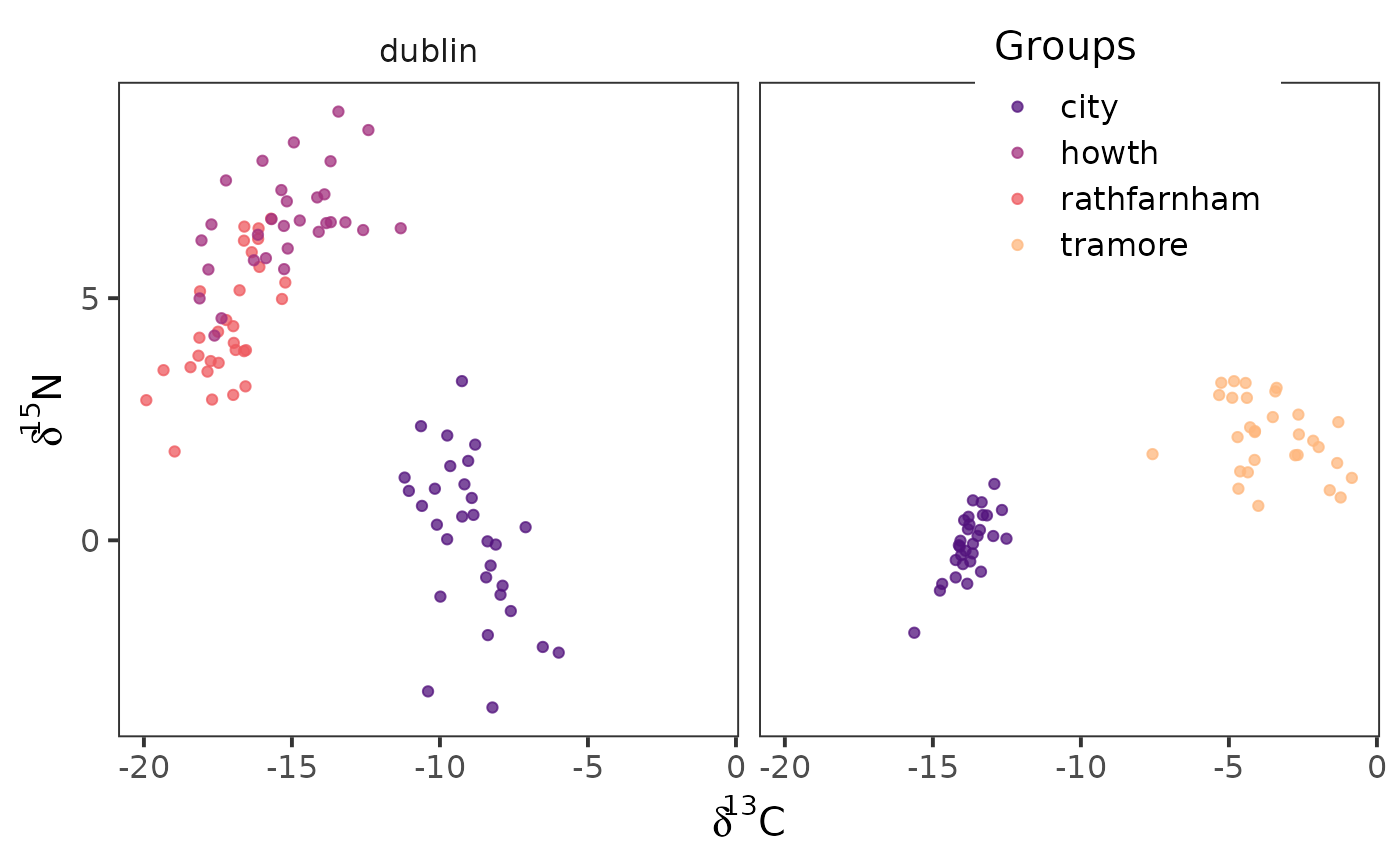
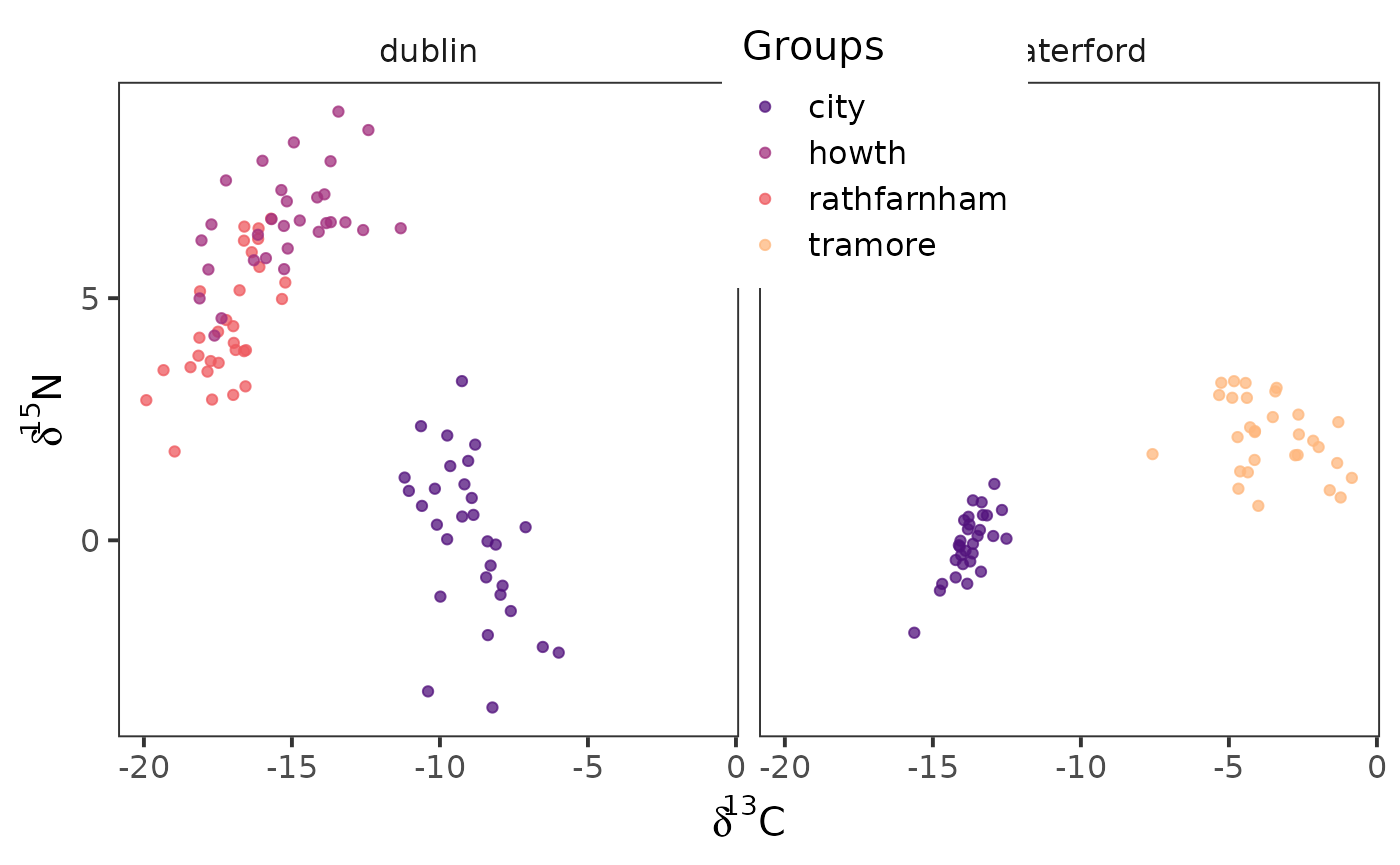
Deploying to gh-pages from @ benjaminhlina/nichetools@afe97bc655fb9cd387bac9de38b0959a0d0a10cc 🚀

diff --git a/articles/using-nichetools-with-the-package-SIBER.html b/articles/using-nichetools-with-the-package-SIBER.html
@@ -5,12 +5,12 @@
 <meta charset="utf-8">
 <meta http-equiv="X-UA-Compatible" content="IE=edge">
 <meta name="viewport" content="width=device-width, initial-scale=1, shrink-to-fit=no">
-<title>Using nichtools with SIBER • nichetools</title>
+<title>Using {nichtools} with SIBER • nichetools</title>
 <script src="../deps/jquery-3.6.0/jquery-3.6.0.min.js"></script><meta name="viewport" content="width=device-width, initial-scale=1, shrink-to-fit=no">
 <link href="../deps/bootstrap-5.3.1/bootstrap.min.css" rel="stylesheet">
 <script src="../deps/bootstrap-5.3.1/bootstrap.bundle.min.js"></script><link href="../deps/font-awesome-6.4.2/css/all.min.css" rel="stylesheet">
 <link href="../deps/font-awesome-6.4.2/css/v4-shims.min.css" rel="stylesheet">
-<script src="../deps/headroom-0.11.0/headroom.min.js"></script><script src="../deps/headroom-0.11.0/jQuery.headroom.min.js"></script><script src="../deps/bootstrap-toc-1.0.1/bootstrap-toc.min.js"></script><script src="../deps/clipboard.js-2.0.11/clipboard.min.js"></script><script src="../deps/search-1.0.0/autocomplete.jquery.min.js"></script><script src="../deps/search-1.0.0/fuse.min.js"></script><script src="../deps/search-1.0.0/mark.min.js"></script><!-- pkgdown --><script src="../pkgdown.js"></script><meta property="og:title" content="Using nichtools with SIBER">
+<script src="../deps/headroom-0.11.0/headroom.min.js"></script><script src="../deps/headroom-0.11.0/jQuery.headroom.min.js"></script><script src="../deps/bootstrap-toc-1.0.1/bootstrap-toc.min.js"></script><script src="../deps/clipboard.js-2.0.11/clipboard.min.js"></script><script src="../deps/search-1.0.0/autocomplete.jquery.min.js"></script><script src="../deps/search-1.0.0/fuse.min.js"></script><script src="../deps/search-1.0.0/mark.min.js"></script><!-- pkgdown --><script src="../pkgdown.js"></script><meta property="og:title" content="Using {nichtools} with SIBER">
 </head>
 <body>
     <a href="#main" class="visually-hidden-focusable">Skip to contents</a>
@@ -34,7 +34,7 @@
   <button class="nav-link dropdown-toggle" type="button" id="dropdown-articles" data-bs-toggle="dropdown" aria-expanded="false" aria-haspopup="true">Articles</button>
   <ul class="dropdown-menu" aria-labelledby="dropdown-articles">
 <li><a class="dropdown-item" href="../articles/using-nichetools-with-the-package-nicheROVER.html">Using {nichetools} with the package nicheROVER</a></li>
-    <li><a class="dropdown-item" href="../articles/using-nichetools-with-the-package-SIBER.html">Using nichtools with SIBER</a></li>
+    <li><a class="dropdown-item" href="../articles/using-nichetools-with-the-package-SIBER.html">Using {nichtools} with SIBER</a></li>
   </ul>
 </li>
 <li class="nav-item"><a class="nav-link" href="../news/index.html">Changelog</a></li>
@@ -56,7 +56,7 @@
 <div class="row">
   <main id="main" class="col-md-9"><div class="page-header">
 
-      <h1>Using nichtools with SIBER</h1>
+      <h1>Using {nichtools} with SIBER</h1>
             
       
 
@@ -199,7 +199,7 @@ stucture.</p>
 <span>    strip.background <span class="op">=</span> <span class="fu"><a href="https://ggplot2.tidyverse.org/reference/element.html" class="external-link">element_blank</a></span><span class="op">(</span><span class="op">)</span>,</span>
 <span>    panel.grid <span class="op">=</span> <span class="fu"><a href="https://ggplot2.tidyverse.org/reference/element.html" class="external-link">element_blank</a></span><span class="op">(</span><span class="op">)</span>, </span>
 <span>    legend.position <span class="op">=</span> <span class="st">"inside"</span>,</span>
-<span>    legend.position.inside <span class="op">=</span> <span class="fu"><a href="https://rdrr.io/r/base/c.html" class="external-link">c</a></span><span class="op">(</span><span class="fl">0.8</span>, <span class="fl">0.9</span><span class="op">)</span></span>
+<span>    legend.position.inside <span class="op">=</span> <span class="fu"><a href="https://rdrr.io/r/base/c.html" class="external-link">c</a></span><span class="op">(</span><span class="fl">0.6</span>, <span class="fl">0.9</span><span class="op">)</span></span>
 <span>  <span class="op">)</span> <span class="op">+</span> </span>
 <span>  <span class="fu"><a href="https://ggplot2.tidyverse.org/reference/labs.html" class="external-link">labs</a></span><span class="op">(</span></span>
 <span>    x <span class="op">=</span> <span class="fu"><a href="https://rdrr.io/r/base/expression.html" class="external-link">expression</a></span><span class="op">(</span><span class="fu"><a href="https://rdrr.io/r/base/paste.html" class="external-link">paste</a></span><span class="op">(</span><span class="va">delta</span><span class="op">^</span><span class="fl">13</span>,<span class="st">"C"</span><span class="op">)</span><span class="op">)</span>, </span>
@@ -307,7 +307,7 @@ are correct by plotting them with {ggplot2}</p>
 <span>    strip.background <span class="op">=</span> <span class="fu"><a href="https://ggplot2.tidyverse.org/reference/element.html" class="external-link">element_blank</a></span><span class="op">(</span><span class="op">)</span>,</span>
 <span>    panel.grid <span class="op">=</span> <span class="fu"><a href="https://ggplot2.tidyverse.org/reference/element.html" class="external-link">element_blank</a></span><span class="op">(</span><span class="op">)</span>, </span>
 <span>    legend.position <span class="op">=</span> <span class="st">"inside"</span>,</span>
-<span>    legend.position.inside <span class="op">=</span> <span class="fu"><a href="https://rdrr.io/r/base/c.html" class="external-link">c</a></span><span class="op">(</span><span class="fl">0.8</span>, <span class="fl">0.9</span><span class="op">)</span></span>
+<span>    legend.position.inside <span class="op">=</span> <span class="fu"><a href="https://rdrr.io/r/base/c.html" class="external-link">c</a></span><span class="op">(</span><span class="fl">0.6</span>, <span class="fl">0.9</span><span class="op">)</span></span>
 <span>  <span class="op">)</span> <span class="op">+</span> </span>
 <span>  <span class="fu"><a href="https://ggplot2.tidyverse.org/reference/labs.html" class="external-link">labs</a></span><span class="op">(</span></span>
 <span>    x <span class="op">=</span> <span class="fu"><a href="https://rdrr.io/r/base/expression.html" class="external-link">expression</a></span><span class="op">(</span><span class="fu"><a href="https://rdrr.io/r/base/paste.html" class="external-link">paste</a></span><span class="op">(</span><span class="va">delta</span><span class="op">^</span><span class="fl">13</span>,<span class="st">"C"</span><span class="op">)</span><span class="op">)</span>, </span>

diff --git a/articles/index.html b/articles/index.html
@@ -19,7 +19,7 @@
 <li class="nav-item dropdown">
   <button class="nav-link dropdown-toggle" type="button" id="dropdown-articles" data-bs-toggle="dropdown" aria-expanded="false" aria-haspopup="true">Articles</button>
   <ul class="dropdown-menu" aria-labelledby="dropdown-articles"><li><a class="dropdown-item" href="../articles/using-nichetools-with-the-package-nicheROVER.html">Using {nichetools} with the package nicheROVER</a></li>
-    <li><a class="dropdown-item" href="../articles/using-nichetools-with-the-package-SIBER.html">Using nichtools with SIBER</a></li>
+    <li><a class="dropdown-item" href="../articles/using-nichetools-with-the-package-SIBER.html">Using {nichtools} with SIBER</a></li>
   </ul></li>
 <li class="nav-item"><a class="nav-link" href="../news/index.html">Changelog</a></li>
       </ul><ul class="navbar-nav"><li class="nav-item"><form class="form-inline" role="search">
@@ -41,7 +41,7 @@
 
       <dl><dt><a href="using-nichetools-with-the-package-nicheROVER.html">Using {nichetools} with the package nicheROVER</a></dt>
         <dd>
-        </dd><dt><a href="using-nichetools-with-the-package-SIBER.html">Using nichtools with SIBER</a></dt>
+        </dd><dt><a href="using-nichetools-with-the-package-SIBER.html">Using {nichtools} with SIBER</a></dt>
         <dd>
       </dd></dl></div>
   </main></div>

diff --git a/reference/extract_group_metrics.html b/reference/extract_group_metrics.html
@@ -27,7 +27,7 @@ estimates of the means and covariance matrices of each group."></head><body>
 <li class="nav-item dropdown">
   <button class="nav-link dropdown-toggle" type="button" id="dropdown-articles" data-bs-toggle="dropdown" aria-expanded="false" aria-haspopup="true">Articles</button>
   <ul class="dropdown-menu" aria-labelledby="dropdown-articles"><li><a class="dropdown-item" href="../articles/using-nichetools-with-the-package-nicheROVER.html">Using {nichetools} with the package nicheROVER</a></li>
-    <li><a class="dropdown-item" href="../articles/using-nichetools-with-the-package-SIBER.html">Using nichtools with SIBER</a></li>
+    <li><a class="dropdown-item" href="../articles/using-nichetools-with-the-package-SIBER.html">Using {nichtools} with SIBER</a></li>
   </ul></li>
 <li class="nav-item"><a class="nav-link" href="../news/index.html">Changelog</a></li>
       </ul><ul class="navbar-nav"><li class="nav-item"><form class="form-inline" role="search">

diff --git a/reference/extract_niche_size.html b/reference/extract_niche_size.html
@@ -25,7 +25,7 @@ This function is a wrapper around nicheROVER::niche.size."></head><body>
 <li class="nav-item dropdown">
   <button class="nav-link dropdown-toggle" type="button" id="dropdown-articles" data-bs-toggle="dropdown" aria-expanded="false" aria-haspopup="true">Articles</button>
   <ul class="dropdown-menu" aria-labelledby="dropdown-articles"><li><a class="dropdown-item" href="../articles/using-nichetools-with-the-package-nicheROVER.html">Using {nichetools} with the package nicheROVER</a></li>
-    <li><a class="dropdown-item" href="../articles/using-nichetools-with-the-package-SIBER.html">Using nichtools with SIBER</a></li>
+    <li><a class="dropdown-item" href="../articles/using-nichetools-with-the-package-SIBER.html">Using {nichtools} with SIBER</a></li>
   </ul></li>
 <li class="nav-item"><a class="nav-link" href="../news/index.html">Changelog</a></li>
       </ul><ul class="navbar-nav"><li class="nav-item"><form class="form-inline" role="search">

diff --git a/reference/mu_est_long.html b/reference/mu_est_long.html
@@ -23,7 +23,7 @@ using  Normal-Inverse-Wishart (NIW) priors."></head><body>
 <li class="nav-item dropdown">
   <button class="nav-link dropdown-toggle" type="button" id="dropdown-articles" data-bs-toggle="dropdown" aria-expanded="false" aria-haspopup="true">Articles</button>
   <ul class="dropdown-menu" aria-labelledby="dropdown-articles"><li><a class="dropdown-item" href="../articles/using-nichetools-with-the-package-nicheROVER.html">Using {nichetools} with the package nicheROVER</a></li>
-    <li><a class="dropdown-item" href="../articles/using-nichetools-with-the-package-SIBER.html">Using nichtools with SIBER</a></li>
+    <li><a class="dropdown-item" href="../articles/using-nichetools-with-the-package-SIBER.html">Using {nichtools} with SIBER</a></li>
   </ul></li>
 <li class="nav-item"><a class="nav-link" href="../news/index.html">Changelog</a></li>
       </ul><ul class="navbar-nav"><li class="nav-item"><form class="form-inline" role="search">

diff --git a/reference/sigma_est_wide.html b/reference/sigma_est_wide.html
@@ -23,7 +23,7 @@ using Normal-Inverse-Wishart (NIW) priors"></head><body>
 <li class="nav-item dropdown">
   <button class="nav-link dropdown-toggle" type="button" id="dropdown-articles" data-bs-toggle="dropdown" aria-expanded="false" aria-haspopup="true">Articles</button>
   <ul class="dropdown-menu" aria-labelledby="dropdown-articles"><li><a class="dropdown-item" href="../articles/using-nichetools-with-the-package-nicheROVER.html">Using {nichetools} with the package nicheROVER</a></li>
-    <li><a class="dropdown-item" href="../articles/using-nichetools-with-the-package-SIBER.html">Using nichtools with SIBER</a></li>
+    <li><a class="dropdown-item" href="../articles/using-nichetools-with-the-package-SIBER.html">Using {nichtools} with SIBER</a></li>
   </ul></li>
 <li class="nav-item"><a class="nav-link" href="../news/index.html">Changelog</a></li>
       </ul><ul class="navbar-nav"><li class="nav-item"><form class="form-inline" role="search">

diff --git a/reference/extract_layman.html b/reference/extract_layman.html
@@ -33,7 +33,7 @@ Layman et al. (2008)."></head><body>
 <li class="nav-item dropdown">
   <button class="nav-link dropdown-toggle" type="button" id="dropdown-articles" data-bs-toggle="dropdown" aria-expanded="false" aria-haspopup="true">Articles</button>
   <ul class="dropdown-menu" aria-labelledby="dropdown-articles"><li><a class="dropdown-item" href="../articles/using-nichetools-with-the-package-nicheROVER.html">Using {nichetools} with the package nicheROVER</a></li>
-    <li><a class="dropdown-item" href="../articles/using-nichetools-with-the-package-SIBER.html">Using nichtools with SIBER</a></li>
+    <li><a class="dropdown-item" href="../articles/using-nichetools-with-the-package-SIBER.html">Using {nichtools} with SIBER</a></li>
   </ul></li>
 <li class="nav-item"><a class="nav-link" href="../news/index.html">Changelog</a></li>
       </ul><ul class="navbar-nav"><li class="nav-item"><form class="form-inline" role="search">

diff --git a/404.html b/404.html
@@ -34,7 +34,7 @@
   <button class="nav-link dropdown-toggle" type="button" id="dropdown-articles" data-bs-toggle="dropdown" aria-expanded="false" aria-haspopup="true">Articles</button>
   <ul class="dropdown-menu" aria-labelledby="dropdown-articles">
 <li><a class="dropdown-item" href="https://benjaminhlina.github.io/nichetools/articles/using-nichetools-with-the-package-nicheROVER.html">Using {nichetools} with the package nicheROVER</a></li>
-    <li><a class="dropdown-item" href="https://benjaminhlina.github.io/nichetools/articles/using-nichetools-with-the-package-SIBER.html">Using nichtools with SIBER</a></li>
+    <li><a class="dropdown-item" href="https://benjaminhlina.github.io/nichetools/articles/using-nichetools-with-the-package-SIBER.html">Using {nichtools} with SIBER</a></li>
   </ul>
 </li>
 <li class="nav-item"><a class="nav-link" href="https://benjaminhlina.github.io/nichetools/news/index.html">Changelog</a></li>

diff --git a/reference/extract_overlap.html b/reference/extract_overlap.html
@@ -23,7 +23,7 @@ nicheROVER."></head><body>
 <li class="nav-item dropdown">
   <button class="nav-link dropdown-toggle" type="button" id="dropdown-articles" data-bs-toggle="dropdown" aria-expanded="false" aria-haspopup="true">Articles</button>
   <ul class="dropdown-menu" aria-labelledby="dropdown-articles"><li><a class="dropdown-item" href="../articles/using-nichetools-with-the-package-nicheROVER.html">Using {nichetools} with the package nicheROVER</a></li>
-    <li><a class="dropdown-item" href="../articles/using-nichetools-with-the-package-SIBER.html">Using nichtools with SIBER</a></li>
+    <li><a class="dropdown-item" href="../articles/using-nichetools-with-the-package-SIBER.html">Using {nichtools} with SIBER</a></li>
   </ul></li>
 <li class="nav-item"><a class="nav-link" href="../news/index.html">Changelog</a></li>
       </ul><ul class="navbar-nav"><li class="nav-item"><form class="form-inline" role="search">

diff --git a/reference/niw_fish_post.html b/reference/niw_fish_post.html
@@ -27,7 +27,7 @@ nicheROVER."></head><body>
 <li class="nav-item dropdown">
   <button class="nav-link dropdown-toggle" type="button" id="dropdown-articles" data-bs-toggle="dropdown" aria-expanded="false" aria-haspopup="true">Articles</button>
   <ul class="dropdown-menu" aria-labelledby="dropdown-articles"><li><a class="dropdown-item" href="../articles/using-nichetools-with-the-package-nicheROVER.html">Using {nichetools} with the package nicheROVER</a></li>
-    <li><a class="dropdown-item" href="../articles/using-nichetools-with-the-package-SIBER.html">Using nichtools with SIBER</a></li>
+    <li><a class="dropdown-item" href="../articles/using-nichetools-with-the-package-SIBER.html">Using {nichtools} with SIBER</a></li>
   </ul></li>
 <li class="nav-item"><a class="nav-link" href="../news/index.html">Changelog</a></li>
       </ul><ul class="navbar-nav"><li class="nav-item"><form class="form-inline" role="search">

diff --git a/reference/over_stat.html b/reference/over_stat.html
@@ -21,7 +21,7 @@ nicheROVER."></head><body>
 <li class="nav-item dropdown">
   <button class="nav-link dropdown-toggle" type="button" id="dropdown-articles" data-bs-toggle="dropdown" aria-expanded="false" aria-haspopup="true">Articles</button>
   <ul class="dropdown-menu" aria-labelledby="dropdown-articles"><li><a class="dropdown-item" href="../articles/using-nichetools-with-the-package-nicheROVER.html">Using {nichetools} with the package nicheROVER</a></li>
-    <li><a class="dropdown-item" href="../articles/using-nichetools-with-the-package-SIBER.html">Using nichtools with SIBER</a></li>
+    <li><a class="dropdown-item" href="../articles/using-nichetools-with-the-package-SIBER.html">Using {nichtools} with SIBER</a></li>
   </ul></li>
 <li class="nav-item"><a class="nav-link" href="../news/index.html">Changelog</a></li>
       </ul><ul class="navbar-nav"><li class="nav-item"><form class="form-inline" role="search">

diff --git a/reference/extract_sigma.html b/reference/extract_sigma.html
@@ -23,7 +23,7 @@ or SIBER."></head><body>
 <li class="nav-item dropdown">
   <button class="nav-link dropdown-toggle" type="button" id="dropdown-articles" data-bs-toggle="dropdown" aria-expanded="false" aria-haspopup="true">Articles</button>
   <ul class="dropdown-menu" aria-labelledby="dropdown-articles"><li><a class="dropdown-item" href="../articles/using-nichetools-with-the-package-nicheROVER.html">Using {nichetools} with the package nicheROVER</a></li>
-    <li><a class="dropdown-item" href="../articles/using-nichetools-with-the-package-SIBER.html">Using nichtools with SIBER</a></li>
+    <li><a class="dropdown-item" href="../articles/using-nichetools-with-the-package-SIBER.html">Using {nichtools} with SIBER</a></li>
   </ul></li>
 <li class="nav-item"><a class="nav-link" href="../news/index.html">Changelog</a></li>
       </ul><ul class="navbar-nav"><li class="nav-item"><form class="form-inline" role="search">
